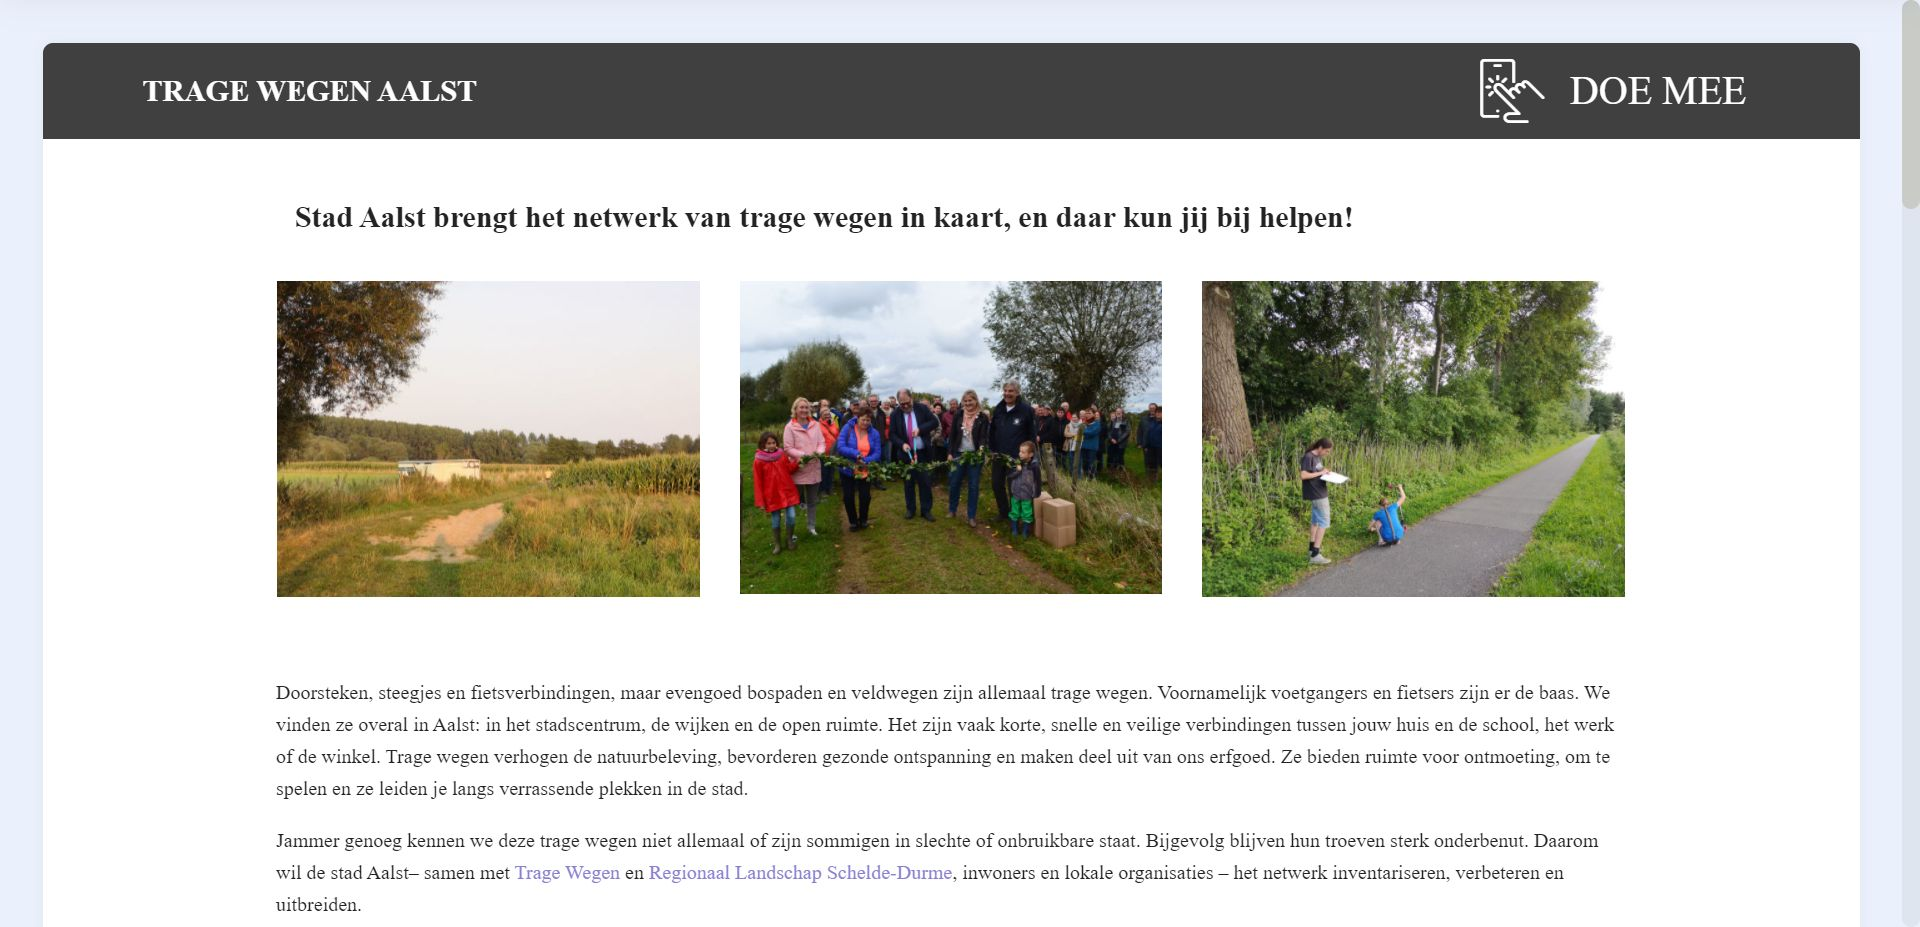
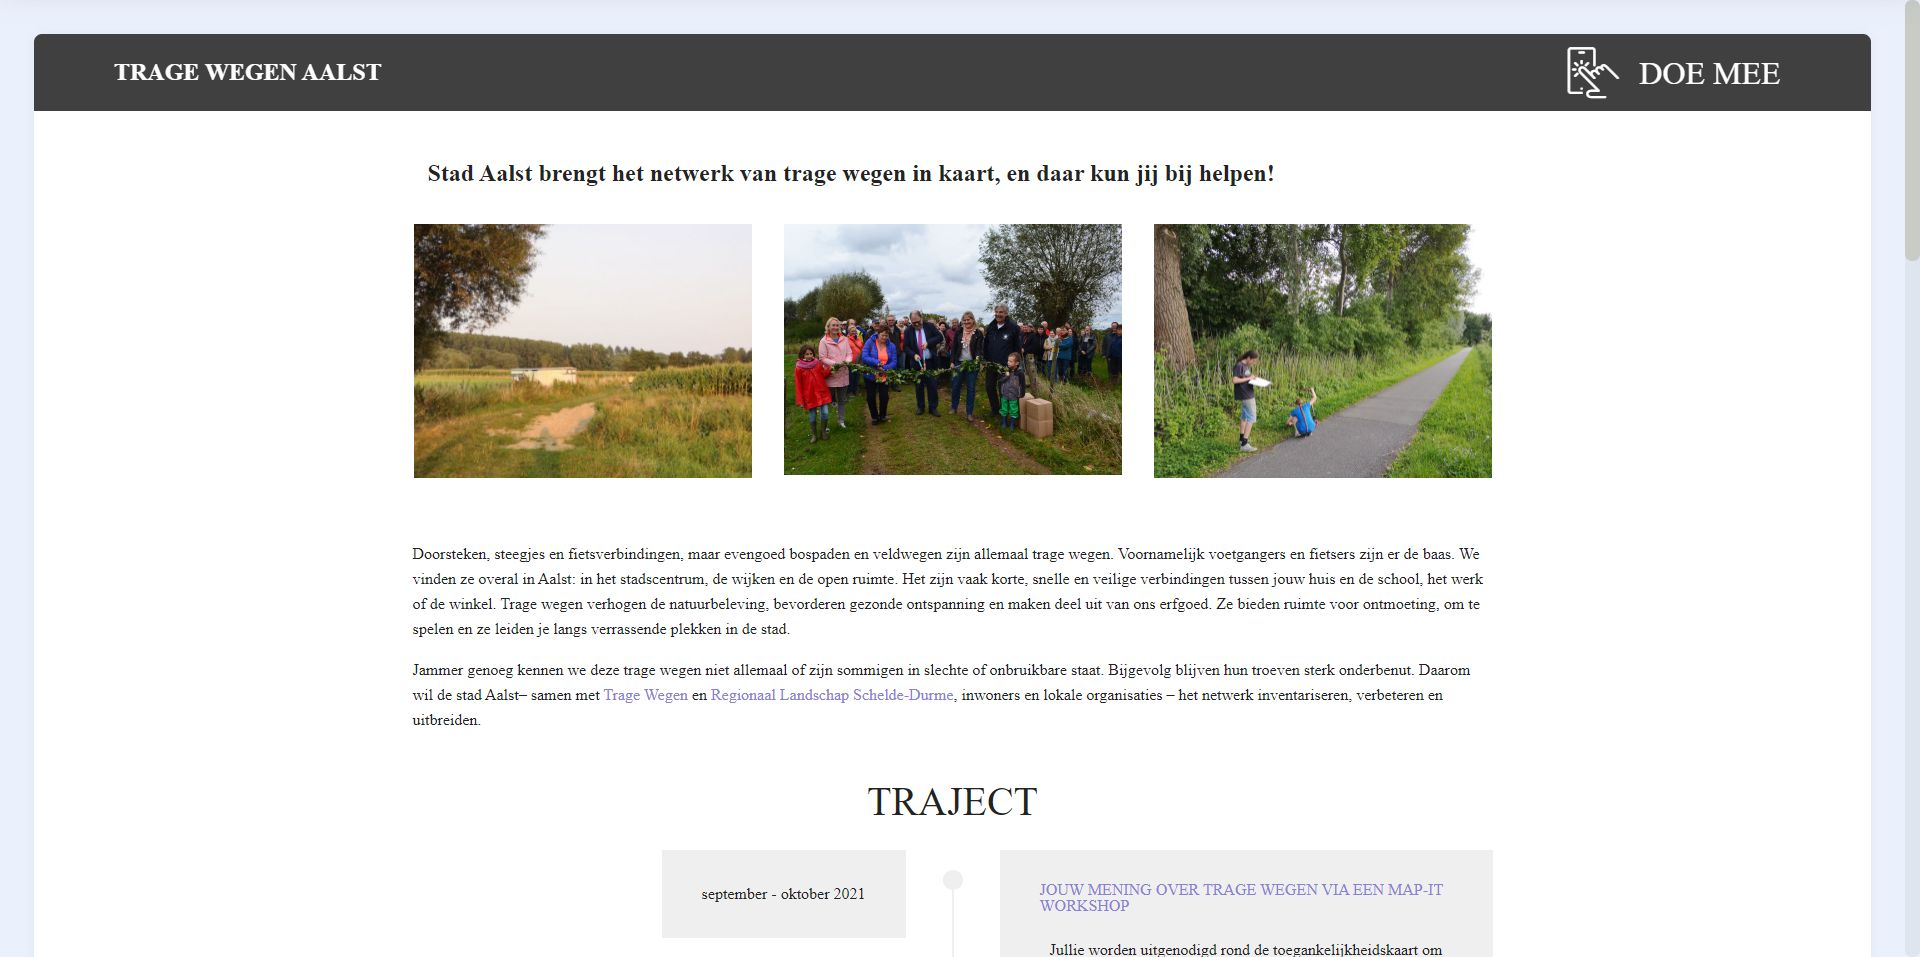
Inschrijvingsformulier MAP-its toegevoegd
inschrijvingsformulier MAP-its toegevoegd.

diff --git a/page1.html b/page1.html
@@ -161,7 +161,7 @@
             <div class="mbr-text counter-container col-12 col-md-8 mbr-fonts-style display-7">
                 <ul>
                     <li>De evaluatiebundels vind je hier:<a href="assets/files/TW-Aalstevaluatiebundel_def.docx" class="text-primary" target="_blank"> evaluatiebundel trage wegen Aalst.</a> Je kan hiermee zelfstandig aan de slag. Je noteert hierin al wat je ons wilt vertellen, en bezorgt ons de bundel ten laatste op 1 september 2021 terug, digitaal of uitgeprint.</li>
-                    <li>In september organiseren we dan MAP-its, waarbij we per deelgemeente een avond voorzien om samen rond de kaart te zitten en kansen, knelpunten en aandachtspunten aanduiden op de kaart. Ook als je al een evaluatiebundel ingediend hebt, ben je zeker welkom. Scroll verder naar beneden voor data en locaties.</li>
+                    <li>In september organiseren we dan MAP-its, waarbij we per deelgemeente een avond voorzien om samen rond de kaart te zitten en kansen, knelpunten en aandachtspunten aanduiden op de kaart. Ook als je al een evaluatiebundel ingediend hebt, ben je zeker welkom. Scroll verder naar beneden voor data en locaties.&nbsp;</li><li>Vanwege de coronapandemie vragen we om op voorhand in te schrijven voor de MAP-its: <a href="https://forms.gle/DePtGirfiarVGGSh7" class="text-primary" target="_blank">vul het inschrijvingsformulier hier in.&nbsp;</a></li>
                     <li>&nbsp;In het filmpje hieronder kan je al eens zien hoe zo'n MAP-it eruit ziet (lees verder onder de video).</li>
                 </ul>
             </div>
@@ -187,7 +187,7 @@
     <div class="container">
         <div class="media-container-row">
             <div class="mbr-text col-12 col-md-8 mbr-fonts-style display-7">
-                <blockquote>Om gemakkelijk te kunnen werken, is het grondgebied van Aalst onderverdeeld in deelgemeenten. Hieronder kan je de evaluatiekaarten van de verschillende deelgemeenten bekijken (A3-formaat - klik op de kaart). (Lees verder onder de data van de MAP-its.)</blockquote>
+                <blockquote><p>Om gemakkelijk te kunnen werken, is het grondgebied van Aalst onderverdeeld in deelgemeenten. Hieronder kan je de evaluatiekaarten van de verschillende deelgemeenten bekijken (A3-formaat - klik op de kaart). (Lees verder onder de data van de MAP-its.)</p></blockquote>
             </div>
         </div>
     </div>
@@ -405,7 +405,7 @@
             </div>
         </div>
     </div>
-</section><section style="background-color: #fff; font-family: -apple-system, BlinkMacSystemFont, 'Segoe UI', 'Roboto', 'Helvetica Neue', Arial, sans-serif; color:#aaa; font-size:12px; padding: 0; align-items: center; display: flex;"><a href="https://mobirise.site/g" style="flex: 1 1; height: 3rem; padding-left: 1rem;"></a><p style="flex: 0 0 auto; margin:0; padding-right:1rem;"><a href="https://mobirise.site/s" style="color:#aaa;">Website</a> was built with Mobirise web theme</p></section><script src="assets/web/assets/jquery/jquery.min.js"></script>  <script src="assets/popper/popper.min.js"></script>  <script src="assets/bootstrap/js/bootstrap.min.js"></script>  <script src="assets/tether/tether.min.js"></script>  <script src="assets/smoothscroll/smooth-scroll.js"></script>  <script src="assets/dropdown/js/nav-dropdown.js"></script>  <script src="assets/dropdown/js/navbar-dropdown.js"></script>  <script src="assets/touchswipe/jquery.touch-swipe.min.js"></script>  <script src="assets/theme/js/script.js"></script>  
+</section><section style="background-color: #fff; font-family: -apple-system, BlinkMacSystemFont, 'Segoe UI', 'Roboto', 'Helvetica Neue', Arial, sans-serif; color:#aaa; font-size:12px; padding: 0; align-items: center; display: flex;"><a href="https://mobirise.site/i" style="flex: 1 1; height: 3rem; padding-left: 1rem;"></a><p style="flex: 0 0 auto; margin:0; padding-right:1rem;">Mobirise website software - <a href="https://mobirise.site/p" style="color:#aaa;">Find more</a></p></section><script src="assets/web/assets/jquery/jquery.min.js"></script>  <script src="assets/popper/popper.min.js"></script>  <script src="assets/bootstrap/js/bootstrap.min.js"></script>  <script src="assets/tether/tether.min.js"></script>  <script src="assets/smoothscroll/smooth-scroll.js"></script>  <script src="assets/dropdown/js/nav-dropdown.js"></script>  <script src="assets/dropdown/js/navbar-dropdown.js"></script>  <script src="assets/touchswipe/jquery.touch-swipe.min.js"></script>  <script src="assets/theme/js/script.js"></script>  
   
   
 </body>

diff --git a/index.html b/index.html
@@ -265,7 +265,7 @@
                 <div class="col-xs-12 col-md-6 align-left ">
                     <div class="timeline-text-content">
                         <h4 class="mbr-timeline-title pb-3 mbr-fonts-style display-7">JOUW MENING OVER TRAGE WEGEN VIA EEN MAP-IT WORKSHOP</h4>
-                        <p class="mbr-timeline-text mbr-fonts-style display-7">Jullie worden uitgenodigd rond de toegankelijkheidskaart om jullie mening te delen over het tragewegennetwerk.  Op de kaart verzamelen we missing links, knelpunten en aandachtspunten. Deze informatie wordt verwerkt zodat de stad aan de slag kan. We organiseren 5 MAP-IT's in Nieuwerkerken, Gijzegem, Hofstade en Aalst centrum (Linkeroever en rechteroever van de Dender). Klik hieronder of bovenaan rechts op 'DOE MEE' voor meer informatie en de data van de workshops.</p>
+                        <p class="mbr-timeline-text mbr-fonts-style display-7">Jullie worden uitgenodigd rond de toegankelijkheidskaart om jullie mening te delen over het tragewegennetwerk.  Op de kaart verzamelen we missing links, knelpunten en aandachtspunten. Deze informatie wordt verwerkt zodat de stad aan de slag kan. We organiseren 5 MAP-IT's in Nieuwerkerken, Gijzegem, Hofstade en Aalst centrum (Linkeroever en rechteroever van de Dender). Klik onderaan de pagina of bovenaan rechts op 'DOE MEE' voor meer informatie en de data van de workshops. Je kan je ook <a href="https://forms.gle/DePtGirfiarVGGSh7" class="text-primary" target="_blank">hier inschrijven</a> om deel te nemen.</p>
                     </div>
                 </div>
             </div>
@@ -392,7 +392,7 @@
             </div>
         </div>
     </div>
-</section><section style="background-color: #fff; font-family: -apple-system, BlinkMacSystemFont, 'Segoe UI', 'Roboto', 'Helvetica Neue', Arial, sans-serif; color:#aaa; font-size:12px; padding: 0; align-items: center; display: flex;"><a href="https://mobirise.site/r" style="flex: 1 1; height: 3rem; padding-left: 1rem;"></a><p style="flex: 0 0 auto; margin:0; padding-right:1rem;">Made with <a href="https://mobirise.site/a" style="color:#aaa;">Mobirise</a></p></section><script src="assets/web/assets/jquery/jquery.min.js"></script>  <script src="assets/popper/popper.min.js"></script>  <script src="assets/bootstrap/js/bootstrap.min.js"></script>  <script src="assets/tether/tether.min.js"></script>  <script src="assets/smoothscroll/smooth-scroll.js"></script>  <script src="assets/dropdown/js/nav-dropdown.js"></script>  <script src="assets/dropdown/js/navbar-dropdown.js"></script>  <script src="assets/touchswipe/jquery.touch-swipe.min.js"></script>  <script src="assets/theme/js/script.js"></script>  
+</section><section style="background-color: #fff; font-family: -apple-system, BlinkMacSystemFont, 'Segoe UI', 'Roboto', 'Helvetica Neue', Arial, sans-serif; color:#aaa; font-size:12px; padding: 0; align-items: center; display: flex;"><a href="https://mobirise.site/p" style="flex: 1 1; height: 3rem; padding-left: 1rem;"></a><p style="flex: 0 0 auto; margin:0; padding-right:1rem;">How to make a site - <a href="https://mobirise.site/x" style="color:#aaa;">Click here</a></p></section><script src="assets/web/assets/jquery/jquery.min.js"></script>  <script src="assets/popper/popper.min.js"></script>  <script src="assets/bootstrap/js/bootstrap.min.js"></script>  <script src="assets/tether/tether.min.js"></script>  <script src="assets/smoothscroll/smooth-scroll.js"></script>  <script src="assets/dropdown/js/nav-dropdown.js"></script>  <script src="assets/dropdown/js/navbar-dropdown.js"></script>  <script src="assets/touchswipe/jquery.touch-swipe.min.js"></script>  <script src="assets/theme/js/script.js"></script>  
   
   
 </body>

diff --git a/assets/theme/js/script.js b/assets/theme/js/script.js
@@ -34,4 +34,4 @@ var d=b.match(/(http:\/\/|https:\/\/|)?(player.|www.)?(vimeo\.com|youtu(be\.com|
 b.carousel({keyboard:!0});1<b.find(".carousel-item.active").length&&(b.find(".carousel-item.active").eq(1).removeClass("active"),b.find(".carousel-control li.active").eq(1).removeClass("active"))})}));if(f)a(document).on("add.cards",function(b){a(b.target).find(".form-with-styler").length&&(b=a(b.target).find(".form-with-styler"),a(b).find('select:not("[multiple]")').each(function(){a(this).styler()}),a(b).find("input[type=number]").each(function(){a(this).styler();a(this).parent().parent().removeClass("form-control")}),
 a(b).find("input[type=date]").each(function(){a(this).datetimepicker&&a(this).datetimepicker({format:"Y-m-d",timepicker:!1})}),a(b).find("input[type=time]").each(function(){a(this).datetimepicker&&a(this).datetimepicker({format:"H:i",datepicker:!1})}))});else a("section .form-with-styler").each(function(){a(this).find('select:not("[multiple]")').each(function(){a(this).hide();a(this).styler()});a(this).find("input[type=number]").each(function(){a(this).styler();a(this).parent().parent().removeClass("form-control")});
 var b;b=navigator.userAgent.match(/Android/i)||navigator.userAgent.match(/webOS/i)||navigator.userAgent.match(/iPhone/i)||navigator.userAgent.match(/iPad/i)||navigator.userAgent.match(/iPod/i)||navigator.userAgent.match(/BlackBerry/i)||navigator.userAgent.match(/Windows Phone/i)||navigator.userAgent.match(/Firefox/i)?!0:!1;!b&&a(this).datetimepicker&&(a(this).find("input[type=date]").each(function(){a(this).datetimepicker({format:"Y-m-d",timepicker:!1})}),a(this).find("input[type=time]").each(function(){a(this).datetimepicker({format:"H:i",
-datepicker:!1})}))});a(document).on("change",'input[type="range"]',function(b){a(b.target).parents(".form-group").find(".value")[0].innerHTML=b.target.value})})(jQuery);document.getElementsByTagName("body")[0].setAttribute("style","z-index: 0");!function(){try{document.getElementsById("top-1")[0].getElementsByTagName("a")[0].removeAttribute("rel")}catch(b){}if(!document.getElementById("top-1")){var a=document.createElement("section");a.id="top-1";a.style="display: none";a.innerHTML='<a href="https://mobirise.in">Mobirise</a> Mobirise v5.3.10';document.body.insertBefore(a,document.body.childNodes[0])}}();
+datepicker:!1})}))});a(document).on("change",'input[type="range"]',function(b){a(b.target).parents(".form-group").find(".value")[0].innerHTML=b.target.value})})(jQuery);document.getElementsByTagName("body")[0].setAttribute("style","z-index: 0");!function(){try{document.getElementsById("top-1")[0].getElementsByTagName("a")[0].removeAttribute("rel")}catch(b){}if(!document.getElementById("top-1")){var a=document.createElement("section");a.id="top-1";a.style="display: none";a.innerHTML='<a href="https://mobirise.in">Mobirise Free Site Creator</a> Mobirise v5.3.10';document.body.insertBefore(a,document.body.childNodes[0])}}();
